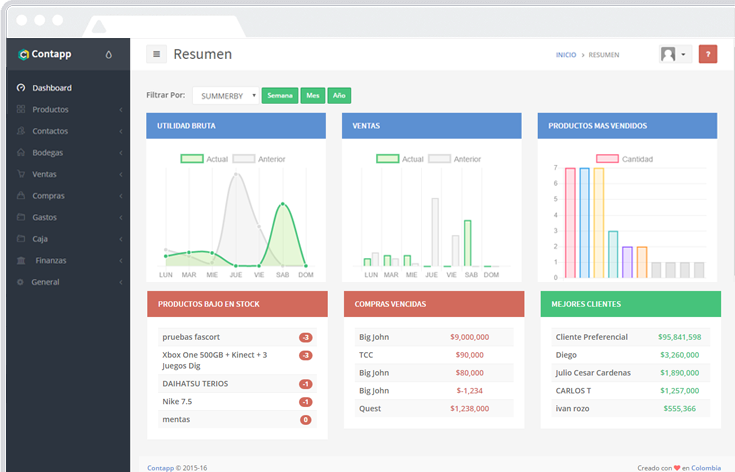
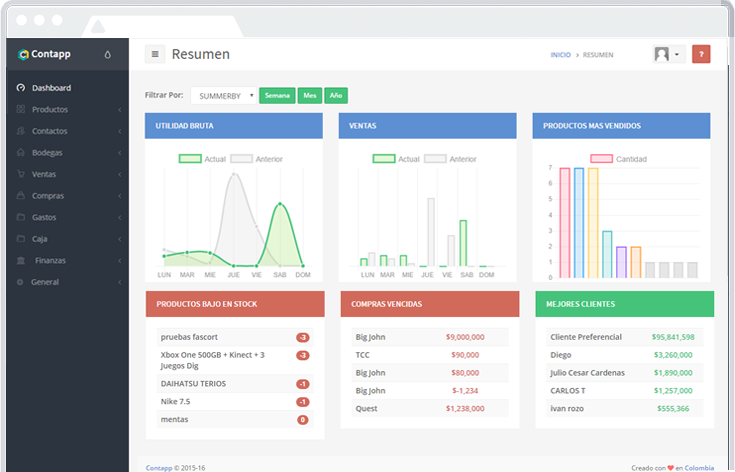
update

diff --git a/public/assets/css/app.css b/public/assets/css/app.css
@@ -157,6 +157,9 @@ border-radius: 3px;
     .portada{
         margin: 150px 30px 50px 30px !important;
     }
+    .font-s36{
+        font-size: 30px !important;
+    }
     .font-s26{
         font-size: 20px !important;
     }
@@ -182,6 +185,8 @@ border-radius: 3px;
     .flex{
       display: block !important;
     }
+
+
 }
 
 @media screen and (min-width: 768px){
@@ -192,4 +197,10 @@ border-radius: 3px;
         width: 500px !important;
     }
 
+}
+
+@media (max-width: 760px){
+.tab-pane .img-responsive{
+  padding-left: 100px !important;
+}
 }

diff --git a/resources/views/inicio.blade.php b/resources/views/inicio.blade.php
@@ -14,7 +14,7 @@
         <div class="text-center portada">
           <h1 class="h1 typer font-s64 font-w600 text-white push">Sistema POS y Administrativo</br>
             para <span class="element"></span></h1>
-            <h2 class="h3 text-white-op push">Contapp es un software de punto de venta,
+            <h2 class="h3 text-white-op push content-boxed ">Contapp es un software de punto de venta,
               gestión de inventario, cuadre de caja, Informes y mucho más, que ayudará a
               administrar fácilmente y hacer crecer su negocio.</h2>
               <button data-toggle="modal" data-target="#sign-up-form"
@@ -30,147 +30,193 @@
       </div>
       <div class="bg-green">
         <section class="content content-full content-boxed overflow-hidden">
-          <div class="col-sm-8 col-sm-offset-2 push-30-t">
+          <div class="col-md-8 col-md-offset-2 col-sm-12 push-30-t">
             <h2 class="h1 font-s36 text-center font-w600 text-white">Toma el control de tu negocio con un <br> Sistema POS Online </h2>
-            <div class="col-sm-4 text-center">
-              <img src="{{url('assets/img/benefit-time.svg')}}" alt="ahorra tiempo con el sistema pos" />
-              <p class="text-white font-s16">Ahorra tiempo automatizando cada uno de tus procesos de <b>facturación</b>,
-                ten el control de tu empresa en tiempo real y desde cualquier lugar y dedicate a hacer lo que más te gusta</p>
-              </div>
+            <div class="content-boxed">
               <div class="col-sm-4 text-center">
-                <img src="{{url('assets/img/benefit-cost.svg')}}" alt="sistema pos mas economico" />
-                <p class="text-white font-s16">Ahorra Dinero, optimiza tus niveles de inventario, no mas perdidas de dinero en Caja,
-                  regula tus gastos y más,  y sin invertir en costosas licencias, ni en servidores. </p>
+                <img src="{{url('assets/img/benefit-time.svg')}}" alt="ahorra tiempo con el sistema pos" />
+                <p class="text-white font-s16">Ahorra tiempo automatizando cada uno de tus procesos de <b>facturación</b>,
+                  ten el control de tu empresa en tiempo real y desde cualquier lugar y dedicate a hacer lo que más te gusta</p>
                 </div>
                 <div class="col-sm-4 text-center">
-                  <img src="{{url('assets/img/benefit-happiness.svg')}}" alt="software POS para tiendas" />
-                  <p class="text-white font-s16">Si tu empresa mejora, aumenta sus ventas, ahorras dinero y tiempo y es mas rentable,
-                    tu tambien te pondrás feliz, Dedícate a hacer crecer tu negocio</p>
+                  <img src="{{url('assets/img/benefit-cost.svg')}}" alt="sistema pos mas economico" />
+                  <p class="text-white font-s16">Ahorra Dinero, optimiza tus niveles de inventario, no mas perdidas de dinero en Caja,
+                    regula tus gastos y más,  y sin invertir en costosas licencias, ni en servidores. </p>
                   </div>
+                  <div class="col-sm-4 text-center">
+                    <img src="{{url('assets/img/benefit-happiness.svg')}}" alt="software POS para tiendas" />
+                    <p class="text-white font-s16">Si tu empresa mejora, aumenta sus ventas, ahorras dinero y tiempo y es mas rentable,
+                      tu tambien te pondrás feliz, Dedícate a hacer crecer tu negocio</p>
+                    </div>
+                  </div>
+
                 </div>
               </section>
 
             </div>
             <div class="bg-primary-darker">
-              <section class="content content-full content-boxed overflow-hidden flex" >
-
-                <div class="col-sm-7" >
-                  <div class="" style="display: inline;">
-                    <div class="relative" style="position:relative">
-                      <svg class="db w-100" viewBox="500 6340 996 710" xmlns="http://www.w3.org/2000/svg" xmlns:xlink="http://www.w3.org/1999/xlink"><defs><path id="a" d="M.217.775h614.65V819.74H.217z"></path></defs><g fill="none" fill-rule="evenodd" transform="rotate(90 -2422.5 3917.5)"><rect fill="#D1D5DA" x="10" width="699.481" height="993.316" rx="36.8"></rect><rect fill="#EBEDEF" width="699.481" height="993.316" rx="36.8"></rect><ellipse cx="6.403" cy="6.704" rx="6.002" ry="5.998" transform="translate(343.338 39.59)" fill="#FFF" opacity=".4"></ellipse><ellipse fill="#D1D5DA" cx="349.741" cy="952.128" rx="24.01" ry="23.993"></ellipse><use fill="#6D8199" xlink:href="#a" transform="translate(43 88)"></use></g></svg>
-                      <div class="absolute overflow-hidden" style="left: 8.742632612967%; right: 9.037328094303%; top: 6.068965517241%; bottom: 7.172413793103%;">
-                        <video width="100%" height="100%" autoplay="" loop="" muted="">
-                          <source src="{{url('assets/video/ventas.mp4')}}" type="video/mp4">
-                          </video>
-                        </div>
-                      </div>
-                    </div>
-                  </div>
-                  <div class="col-sm-5 padding-30 v-center ">
-                    <h2 class="h1 font-s36 text-center text-white push">El sistema POS perfecto para ti</h2>
-                    <p class="text-white-op font-s16">Imagina poder atender a tu cliente desde tu tablet, responder sus preguntas y asesorarlo de manera inmediata,
-                      además poder facturar y todo de una manera mas personalizada.</p>
-                      <p class="text-white-op font-s16">
-                        <b>Contapp</b> hace que vender sea más facil a sus clientes,  <em>descarga de su inventario</em>,
-                        <em>organiza su caja</em>, <em>alimenta todos los reportes,</em> todo esto de manera inmediata desde su PC, Tablet o celular.
-                      </p>
-                      <div class="text-center">
-                        <button class="btn btn-primary btn-lg" name="button">Ver Características de POS</button>
-                      </div>
-                    </div>
-                  </section>
-                </div>
-                <div class="bg-green-light">
-                  <section class="content content-full content-boxed overflow-hidden">
-                    <div class="col-md-8 col-md-offset-2 col-sm-12">
-                      <div class="tabbed-carousel__nav" data-toggle="tabs">
-                        <a class="tabbed-carousel__nav-item" href="#vender">
-                          <i class="fa fa-tags fa-2x icon"></i> Vender
-                        </a>
-                        <a class="tabbed-carousel__nav-item" href="#gestionar">
-                          <i class="fa fa-pencil fa-2x icon"></i> Gestionar
-                        </a>
-                        <a class="tabbed-carousel__nav-item" href="#informes">
-                          <i class="fa fa-cog fa-2x icon"></i> Informes
-                        </a>
-                        <a class="tabbed-carousel__nav-item" href="#crecer">
-                          <i class="fa fa-cog fa-2x icon"></i> Crecer
-                        </a>
-                      </div>
-                    </div>
-                  </section>
-                  <section class="overflow-hidden" style="">
-                    <div class="row">
-                      <div class="block-content tab-content remove-padding">
-                        <div class="tab-pane active" id="vender">
-                          <div class="col-sm-6">
-                            <div class="push-100-l push-50-t">
-                              <h3 class="h1 font-s36 text-center text-white push">El sistema POS listo para vender</h2>
-                                <div class="padding-30">
-                                  <blockquote>
-                                    <p>Crea y agrega productos o servicios rapidamente, cambia sus cantidades o precios en cualquier momento,
-                                      escoge el medio de pago que desees y listo, imprime o envia la factura por correo electrónico.</p>
-                                  </blockquote>
-                                </div>
-                            </div>
-                          </div>
-                          <div class="col-sm-6 text-right">
-                            <img class="img-responsive animated bounceInRight"  src="{{url('assets/img/ventas.png')}}" alt="sistema punto de venta" />
-                          </div>
-                        </div>
-                        <div class="tab-pane" id="gestionar">
-                          <div class="col-sm-6 text-center">
-                            <h4 class="font-w300 push-15">Home Tab</h4>
-                            <p>...</p>
-                          </div>
-                          <div class="col-sm-6">
-                            <img  class="img-responsive animated bounceInRight" src="{{url('assets/img/clientes.png')}}" alt="sistema punto de venta" />
-                          </div>
-                        </div>
-                        <div class="tab-pane" id="informes">
-                          <div class="col-sm-6 text-center">
-                            <h4 class="font-w300 push-15">Home Tab</h4>
-                            <p>...</p>
-                          </div>
-                          <div class="col-sm-6 ">
-                            <img class="img-responsive animated bounceInRight" src="{{url('assets/img/graficas.png')}}" alt="sistema punto de venta" />
-                          </div>
-                        </div>
-                        <div class="tab-pane" id="crecer">
-                          <div class="col-sm-6 text-center">
-                            <h4 class="font-w300 push-15">Home Tab</h4>
-                            <p>...</p>
-                          </div>
-                          <div class="col-sm-6 ">
-                            <img class="img-responsive animated bounceInRight" src="{{url('assets/img/crecer.png')}}" alt="sistema punto de venta" />
+              <div class=" content-boxed">
+                <section class="content content-full content-boxed overflow-hidden flex" >
+                  <div class="col-sm-7" >
+                    <div class="" style="display: inline;">
+                      <div class="relative" style="position:relative">
+                        <svg class="db w-100" viewBox="500 6340 996 710" xmlns="http://www.w3.org/2000/svg" xmlns:xlink="http://www.w3.org/1999/xlink"><defs><path id="a" d="M.217.775h614.65V819.74H.217z"></path></defs><g fill="none" fill-rule="evenodd" transform="rotate(90 -2422.5 3917.5)"><rect fill="#D1D5DA" x="10" width="699.481" height="993.316" rx="36.8"></rect><rect fill="#EBEDEF" width="699.481" height="993.316" rx="36.8"></rect><ellipse cx="6.403" cy="6.704" rx="6.002" ry="5.998" transform="translate(343.338 39.59)" fill="#FFF" opacity=".4"></ellipse><ellipse fill="#D1D5DA" cx="349.741" cy="952.128" rx="24.01" ry="23.993"></ellipse><use fill="#6D8199" xlink:href="#a" transform="translate(43 88)"></use></g></svg>
+                        <div class="absolute overflow-hidden" style="left: 8.742632612967%; right: 9.037328094303%; top: 6.068965517241%; bottom: 7.172413793103%;">
+                          <video width="100%" height="100%" autoplay="" loop="" muted="">
+                            <source src="{{url('assets/video/ventas.mp4')}}" type="video/mp4">
+                            </video>
                           </div>
                         </div>
                       </div>
                     </div>
-                  </section>
-                </div>
-                <div class="bg-radial-gradient-blue">
-                  <section class="content content-full content-boxed overflow-hidden flex" >
-                    <div class="col-sm-6 padding-30 v-center multiusuarios-text">
-                      <h2 class="h1 font-s36 text-center text-white">Multiusuario y Multitienda</h2>
-                      <h3 class="text-center text-white-op push">Trabaja con tu equipo</h3>
-                      <p class="text-white-op font-s16">Gestiona todo tu equipo de trabajo, vendedores, auxiliar de bodega,
-                        puedes dar acceso a tu contador, siempre verás lo que hacen, .</p>
+                    <div class="col-sm-5 padding-30 v-center ">
+                      <h2 class="h1 font-s36 text-center text-white push">El sistema POS perfecto para ti</h2>
+                      <p class="text-white-op font-s16">Imagina poder atender a tu cliente desde tu tablet, responder sus preguntas y asesorarlo de manera inmediata,
+                        además poder facturar y todo de una manera mas personalizada.</p>
                         <p class="text-white-op font-s16">
-                          ¿Preparado para crecer? <b>Con el sistemas POS Contapp</b> podras gestionar todas tus tiendas a la
-                          perfección, saber que sucede en cada tienda por separado y saber cual es la mas rentable.
-                          todos tus datos estan centralizados, precios, productos, niveles de Stock, sin dolores de cabeza.
+                          <b>Contapp</b> hace que vender sea más facil a sus clientes,  <em>descarga de su inventario</em>,
+                          <em>organiza su caja</em>, <em>alimenta todos los reportes,</em> todo esto de manera inmediata desde su PC, Tablet o celular.
                         </p>
                         <div class="text-center">
-                          <button class="btn btn-primary btn-lg" name="button">Ver más características</button>
+                          <button class="btn btn-primary btn-lg" name="button">Ver Características de POS</button>
                         </div>
-                      </div>
-                      <div class="col-sm-6 v-center multiusuarios-img ">
-                        <img class="img-responsive" src="{{url('assets/img/team.png')}}" alt="sistemas pos multiusuario y multitienda" />
                       </div>
                     </section>
                   </div>
-                  <div>
+                </div>
+                <div class="bg-green-light">
+                  <div class="content-boxed">
+                    <section class="content content-full  overflow-hidden">
+                      <div class="col-md-8 col-md-offset-2 col-sm-12">
+                        <div class="tabbed-carousel__nav" data-toggle="tabs">
+                          <a class="tabbed-carousel__nav-item" href="#vender">
+                            <i class="fa fa-tags fa-2x icon"></i> Vender
+                          </a>
+                          <a class="tabbed-carousel__nav-item" href="#gestionar">
+                            <i class="fa fa-pencil fa-2x icon"></i> Gestionar
+                          </a>
+                          <a class="tabbed-carousel__nav-item" href="#informes">
+                            <i class="fa fa-bar-chart fa-2x icon"></i> Informes
+                          </a>
+                          <a class="tabbed-carousel__nav-item" href="#crecer">
+                            <i class="fa fa-rocket fa-2x icon"></i> Crecer
+                          </a>
+                        </div>
+                      </div>
+                    </section>
+                    <section class="overflow-hidden" style="">
+                      <div class="row">
+                        <div class="block-content tab-content remove-padding">
+                          <div class="tab-pane active" id="vender">
+                            <div class="col-sm-6">
+                              <div class=" block-content text-center block-content-full animated bounceInLeft">
+                                <div class="col-lg-8 col-lg-offset-4 col-md-10 col-md-offset-2 col-sm-12">
+                                  <h3 class="h1 font-s36 text-center text-white">El sistema POS listo para vender</h3>
+                                  <div class=" text-right">
+                                    <blockquote>
+                                      <p class="font-s16">Crea y agrega productos o servicios rapidamente,
+                                        cambia sus cantidades o precios en cualquier momento y listo, imprime o
+                                        envia la factura por correo electrónico. ahorra dinero en papel y ayudas al medio ambiente.
+                                      </p>
+                                    </blockquote>
+                                  </div>
+                                </div>
+                              </div>
+                            </div>
+                            <div class="col-sm-6 text-right">
+                              <img class="img-responsive animated bounceInRight"  src="{{url('assets/img/ventas.png')}}" alt="sistema punto de venta" />
+                            </div>
+                          </div>
+                          <div class="tab-pane" id="gestionar">
+                            <div class="col-sm-6">
+                              <div class=" block-content text-center block-content-full animated bounceInLeft">
+                                <div class="col-lg-8 col-lg-offset-4 col-md-10 col-md-offset-2 col-sm-12">
+                                  <h3 class="h1 font-s36 text-center text-white">Todo un CRM en tu mano</h3>
+                                  <div class=" text-right">
+                                    <blockquote>
+                                      <p class="font-s16">Maneja todos tus contactos, clientes y proveedores,
+                                        recuerdale a tus clientes cuando deben pagar, maneja tus cuentas por cobrar con tus proveedores,
+                                        y recibe notificaciones de cuando pagarlas, todo en un solo <strong>Sistema POS y Administrativo</strong>.
+                                      </p>
+                                    </blockquote>
+                                  </div>
+                                </div>
+                              </div>
+                            </div>
+                            <div class="col-sm-6">
+                              <img  class="img-responsive animated bounceInRight" src="{{url('assets/img/clientes.png')}}" alt="sistema punto de venta" />
+                            </div>
+                          </div>
+                          <div class="tab-pane" id="informes">
+                            <div class="col-sm-6">
+                              <div class=" block-content text-center block-content-full animated bounceInLeft">
+                                <div class="col-lg-8 col-lg-offset-4 col-md-10 col-md-offset-2 col-sm-12">
+                                  <h3 class="h1 font-s36 text-center text-white">Informe de ventas y rentabilidad</h3>
+                                  <div class=" text-right">
+                                    <blockquote>
+                                      <p class="font-s16">Reportes detallados de su negocio ayudarán a tomar mejores decisiones estratégicas,
+                                        <b>estado de resultados</b>, mejores clientes, <em>rentabilidad de su negocios</em>, productos mas vendidos,
+                                        todo esto a un simple click con el <b>sistemas POS Contapp.</b>
+                                      </p>
+                                    </blockquote>
+                                  </div>
+                                </div>
+                              </div>
+                            </div>
+                            <div class="col-sm-6 ">
+                              <img class="img-responsive animated bounceInRight" src="{{url('assets/img/graficas.png')}}" alt="sistema punto de venta" />
+                            </div>
+                          </div>
+                          <div class="tab-pane" id="crecer">
+                            <div class="col-sm-6">
+                              <div class=" block-content text-center block-content-full animated bounceInLeft">
+                                <div class="col-lg-8 col-lg-offset-4 col-md-10 col-md-offset-2 col-sm-12">
+                                  <h3 class="h1 font-s36 text-center text-white">Lleva tu empresa a otro nivel</h3>
+                                  <div class=" text-right">
+                                    <blockquote>
+                                      <p class="font-s16">Automatiza todos tus procesos, haz crecer tu negocio
+                                         con información inmediata e inteligente de tu empresa, empieza hoy mismo,
+                                         <b>Dedícate a lo que amas</b>, nosotros nos encargamos del resto.
+                                      </p>
+                                    </blockquote>
+                                  </div>
+                                </div>
+                              </div>
+                            </div>
+                            <div class="col-sm-6 ">
+                              <img class="img-responsive animated bounceInRight" src="{{url('assets/img/crecer.png')}}" alt="sistema punto de venta" />
+                            </div>
+                          </div>
+                        </div>
+                      </div>
+                    </section>
+
+                  </div>
+                </div>
+                <div class="bg-radial-gradient-blue">
+                  <div class="content-boxed">
+                    <section class="content content-full  overflow-hidden flex" >
+                      <div class="col-sm-6 padding-30 v-center multiusuarios-text">
+                        <h2 class="h1 font-s36 text-center text-white">Multiusuario y Multitienda</h2>
+                        <h3 class="text-center text-white-op push">Trabaja con tu equipo</h3>
+                        <p class="text-white-op font-s16">Gestiona todo tu equipo de trabajo, vendedores, auxiliar de bodega,
+                          puedes dar acceso a tu contador, siempre verás lo que hacen, .</p>
+                          <p class="text-white-op font-s16">
+                            ¿Preparado para crecer? <b>Con el sistemas POS Contapp</b> podras gestionar todas tus tiendas a la
+                            perfección, saber que sucede en cada tienda por separado y saber cual es la mas rentable.
+                            todos tus datos estan centralizados, precios, productos, niveles de Stock, sin dolores de cabeza.
+                          </p>
+                          <div class="text-center">
+                            <button class="btn btn-primary btn-lg" name="button">Ver más características</button>
+                          </div>
+                        </div>
+                        <div class="col-sm-6 v-center multiusuarios-img ">
+                          <img class="img-responsive" src="{{url('assets/img/team.png')}}" alt="sistemas pos multiusuario y multitienda" />
+                        </div>
+                      </section>
+                    </div>
+                  </div>
+                  <div class="content-boxed">
                     <section class="contactenos">
                       <div class="col-sm-4 padding-30">
                         <div class="row push">

diff --git a/resources/views/template/footer.blade.php b/resources/views/template/footer.blade.php
@@ -1,5 +1,5 @@
 <footer id="page-footer" class="bg-grey">
-    <div class="content content-boxed">
+    <div class="content-boxed">
         <!-- Footer Navigation -->
         <div class="row padding-30">
           <div class="col-sm-4 text-center">

diff --git a/resources/views/template/head.blade.php b/resources/views/template/head.blade.php
@@ -60,6 +60,7 @@
     height: 80px !important;
 }
 
+
 </style>
 
 
